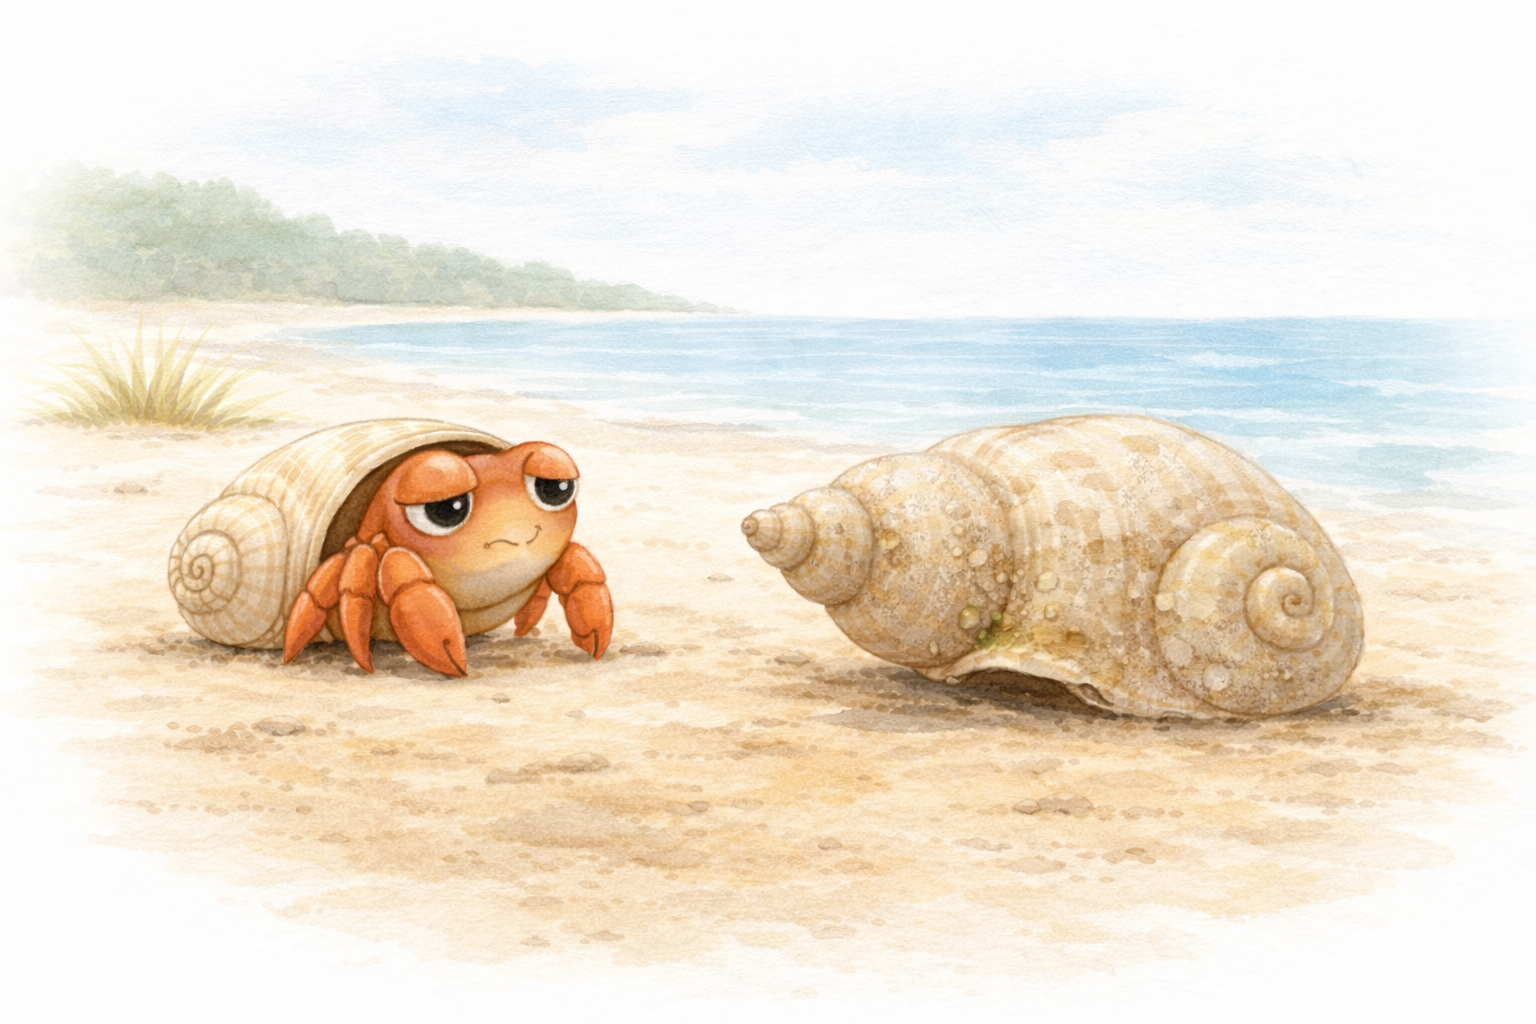
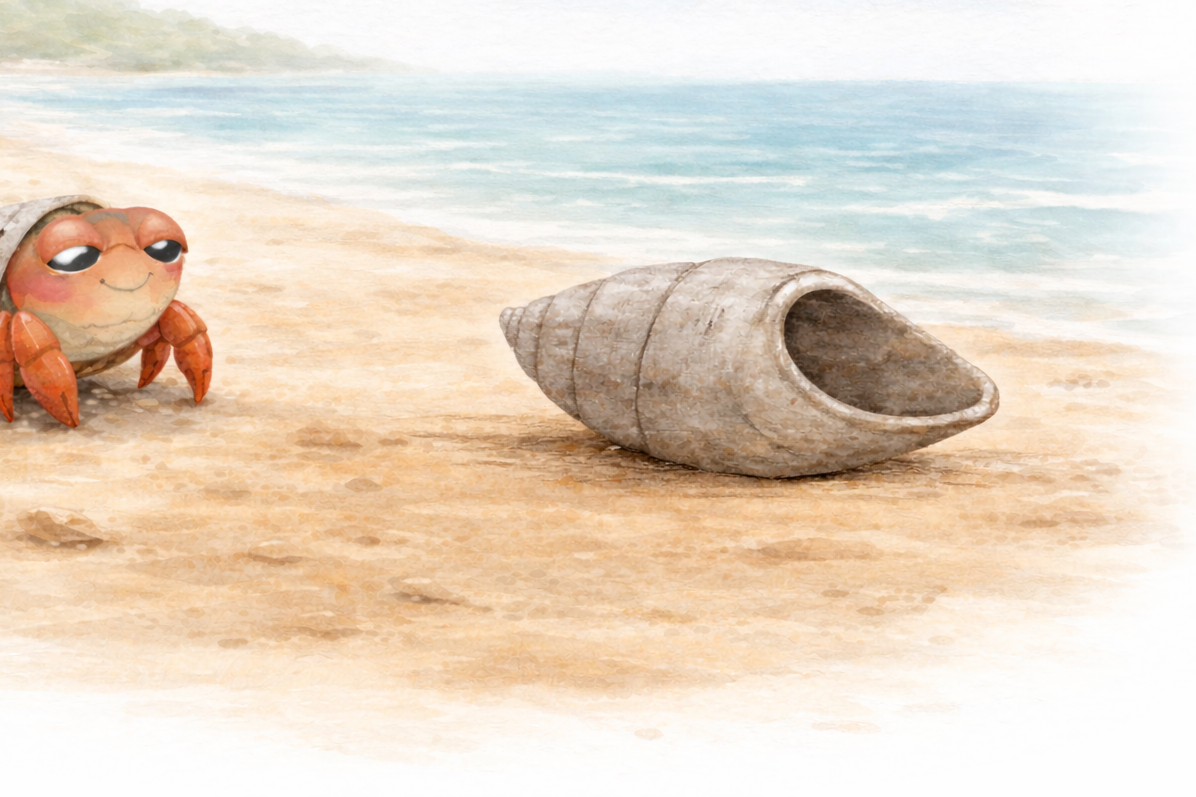
Update images and text for shell search scene
- Replace harold-scuttling with wider shot
- Update meh shell description in book and picture content
- Switch to new-shell-empty.png for shell discovery slides
- Use harold-squished-facing-right for "he stopped" slide
- Default to picture mode for new visitors
- Add image audit file for tracking image quality

diff --git a/content-loader.js b/content-loader.js
@@ -409,7 +409,7 @@
 
             // Determine initial mode
             const savedMode = localStorage.getItem('squished-viewMode');
-            const initialMode = (savedMode === 'picture' && pictureHtml) ? 'picture' : 'text';
+            const initialMode = (savedMode === 'text' || !pictureHtml) ? 'text' : 'picture';
             const initialHtml = initialMode === 'picture' ? pictureHtml : textHtml;
 
             // Only replace if we have valid content

diff --git a/image-audit.md b/image-audit.md
@@ -1,0 +1,176 @@
+# Image Audit
+
+Instructions: Go through the website in picture mode and mark each scene.
+- **Status**: ✅ KEEP / ⚠ OK FOR NOW / 🔁 REDO / ❌ CUT IMAGE
+- **Notes**: anything — wrong vibe, inconsistent character, bad composition, etc.
+
+The early section (Scenes 1–5) already works well with multiple images.
+From Scene 6 onward, we shift to one-image-per-scene.
+
+Page numbers match the on-screen page numbers in picture mode.
+
+---
+
+## EARLY SECTION — multiple images, already working
+
+### Scene 1: Harold is Happy (pages 3–6)
+**Image:** `harold-happy.png` (used 4 times)
+**Text:** "Once upon a time..." through "And for a while, it was."
+**Status:** ✅
+**Notes:**
+
+### Scene 2: Harold Feels Squished (pages 7–11)
+**Image:** `harold-squished.png` (used 5 times)
+**Text:** "But Harold kept eating seaweed..." through "(It hadn't.)"
+**Status:** ✅
+**Notes:**
+
+### Scene 3: Mabel Intervenes (pages 12–18)
+**Images:**
+- `mabel-and-harold.png` — "you've gotten bigger"
+- `harold-happy.png` — "I'm exactly the same size" (denial)
+- `mabel-the-look.png` — The Look, "you need a bigger shell", "you can't breathe"
+- `harold-squished.png` — "Leave my shell?", "Harold had no answer"
+
+**Status:** ✅
+**Notes:**
+
+### Scene 4: Edwin (pages 19–29)
+**Images:**
+- `edwin.png` — Edwin asking questions (4 slides)
+- `harold-squished.png` — Harold's answers (4 slides)
+- `edwin-wow.png` — "I hope I get squished one day"
+- `harold-happy.png` — Harold laughs, "Trust me, you will"
+
+**Status:** ✅
+**Notes:**
+
+### Scene 5: The Biology Lesson / Knowing vs Doing (pages 30–35)
+**Image:** `harold-squished.png` (used 6 times)
+**Text:** "Here's the thing about hermit crabs..." through "he was avoiding it"
+**Status:** ✅
+**Notes:**
+
+---
+
+## MID/LATE SECTION — one image per scene
+
+### Scene 6: Night Contemplation (pages 36–42)
+**Image:** `harold-contemplating.png` (used 7 times)
+**Text:** "That night, Harold couldn't sleep..." through "Huh, said Harold."
+**Status:** ✅
+**Notes:**
+
+### Scene 7: The Search (pages 43–49)
+**Text:** "The next morning, Harold made a decision..." through "It looked good. It looked right."
+**Current images:**
+- `harold-scuttling.png` — decides to search (1 slide)
+- `dream-shell.png` — the too-big dream shell (2 slides)
+- `harold-meh-shell.png` — the beat-up shell (1 slide)
+- `new-shell-empty.png` — finds the right shell, circles it, inspects it (3 slides)
+
+**Idea:** The three shells (dream, meh, perfect) could all be **shell-only still lifes** — no Harold in the scene. Easier to generate, more consistent. Harold scuttling could stay or be cut.
+
+**Status for `harold-scuttling.png`:** ✅ — replaced with new wider shot, looks great.
+**Status for `dream-shell.png`:** ✅
+**Status for `harold-meh-shell.png`:** 🔄 - Harold's shell that he is wearing is totally wrong!  Replace it with just a picture of the new meh shell
+**Status for `new-shell-empty.png`:** 🔄 this one looks wonderful, except that the shell he is wearing is all wrong.
+**Notes:**
+
+### Scene 8: The Decision / The Hesitation (pages 50–57)
+**Text:** "Harold positioned his old shell right next to the new one..." through "Did he really want to weigh it down with all his old stuff too?"
+**Current images:**
+- `new-shell-empty.png` — positions old shell next to new (2 slides) 🔄 Right now, he's in the wrong coloured shell.
+- `harold-moving-scared.jpeg` — "naked, soft, exposed" (1 slide) 🔄 I tried to overcome the AI generation problems, by pixelating the image so it was mildly amusing, but it sucks.
+- `harold-nervous.png` — "Here we go" (1 slide) 🔄 that's okay, but I'd be happy to replace it with 1 image.
+- `harold-squished-facing-right.png` — stops, still in old shell (1 slide) 🔄
+- `harold-squished.png` — all his stuff, can't leave it (5 slides) 🔄
+
+**This is the messiest scene image-wise** — 5 different images for one emotional beat (hesitation/fear). Could this be one image?
+
+**Status for `new-shell-empty.png` (reuse):** 🔄
+**Status for `harold-moving-scared.jpeg`:** 🔄
+**Status for `harold-nervous.png`:** 🔄
+**Status for `harold-squished-facing-right.png`:** 🔄
+**Status for `harold-squished.png` (reuse):** 🔄
+**Notes:**
+
+
+### Scene 9: The Naked Dash (pages 58–62)
+**Current images:**
+- `harold-moving.png` — the move itself (4 slides)
+- `seagull.png` — the seagull squawks (1 slide)
+
+**Status for `harold-moving.png`:** 🔄
+**Status for `seagull.png`:** ✅
+**Notes:**
+
+### Scene 10: The New Shell (pages 63–71)
+**Image:** `harold-new-shell.png` (used 9 times)
+**Text:** "He looked around. Strange." through "he scuttled past sea grass"
+**Status:**
+**Notes:**
+
+### Scene 11: The Queue (pages 72–75)
+**Image:** `the-queue.png` (used 4 times)
+**Text:** "A queue of hermit crabs..." through "the whole community moved up"
+**Status:**
+**Notes:**
+
+### Scene 12: Mabel & Harold Reunite / Edwin in Old Shell (pages 76–85)
+**Current images:**
+- `mabel-and-harold.png` — conversation (5 slides)
+- `mabel.png` — Mabel's wisdom (4 slides)
+- `edwin.png` — Edwin in old shell (5 slides)
+- `harold-new-shell.png` — Harold smiles (1 slide)
+
+**This is long.** Could be split or simplified. Key question: do all three character images (mabel, mabel-and-harold, edwin) work well enough?
+
+**Status for `mabel-and-harold.png`:**
+**Status for `mabel.png`:**
+**Status for `edwin.png` (reuse from earlier):**
+**Notes:**
+
+### Scene 13: The Closing Reflection (pages 86–90)
+**Current images:**
+- `harold-contemplating.png` — reflections on growth (5 slides)
+- `harold-moving.png` — "that naked moment" (1 slide)
+- `harold-squished.png` — "comfort zone" (1 slide)
+- `harold-new-shell.png` — final 2 slides, leaning into new shell
+
+**Could this be mostly `harold-contemplating.png` with `harold-new-shell.png` for the final beat?**
+
+**Status for `harold-contemplating.png` (reuse):**
+**Status for `harold-new-shell.png` (reuse):**
+**Status for `harold-moving.png` (reuse):**
+**Status for `harold-squished.png` (reuse):**
+**Notes:**
+
+---
+
+## UNUSED IMAGES
+
+These exist in the `images/` folder but aren't in `picture-content.md`:
+
+- `harold-about-to-move.png` — keep or delete?
+- `new-shell.png` — keep or delete?
+
+---
+
+## SUMMARY AFTER AUDIT
+
+**Total distinct images currently:** 19 used + 2 unused = 21
+**Images I'm happy with:**
+**Images that need redoing:**
+**Images that could be replaced with shell-only still lifes:**
+**Scenes where I'd rather cut the image entirely:**
+
+---
+
+## NEXT STEPS (for Clarke & Claude to discuss)
+
+After you fill this in, we can:
+1. Identify which scenes shift to one-image-per-scene
+2. Generate shell-only still lifes for the search scene
+3. Consolidate messy multi-image scenes (especially Scene 8)
+4. Update `picture-content.md` to match

diff --git a/picture-content.md b/picture-content.md
@@ -213,31 +213,31 @@ But it was too big. Too heavy to carry. Too much space to fill. Maybe in a coupl
 ---
 
 ![images/harold-meh-shell.png]
-He passed another that was barely bigger than his current one - but lighter. Easier to move around. He could watch the sunrise and the sunset in a shell like that. He filed that away.
+He passed another that was a little bigger than his current one - but older. A little beat up. A little tired. He filed that away.
 
 ---
 
-![images/new-shell.png]
+![images/new-shell-empty.png]
 But then he saw another one. He circled it. Inspected it. Peered inside.
 
 ---
 
-![images/new-shell.png]
+![images/new-shell-empty.png]
 It had a rather fetching spiral pattern. Streamlined. Aerodynamic. And it was just sitting there, empty, waiting.
 
 ---
 
-![images/new-shell.png]
+![images/new-shell-empty.png]
 Was this his next shell?
 
 ---
 
-![images/new-shell.png]
+![images/new-shell-empty.png]
 It looked good. It looked right.
 
 ---
 
-![images/harold-about-to-move.png]
+![images/new-shell-empty.png]
 Harold positioned his old shell right next to the new one. Close as he could get. One quick move. That's all it would take.
 
 ---
@@ -252,7 +252,7 @@ But that move meant being naked. Soft. Exposed. Even just for a moment.
 
 ---
 
-![images/harold-squished.png]
+![images/harold-squished-facing-right.png]
 Then he stopped. Still inside his old shell.
 
 ---

diff --git a/book-content.md b/book-content.md
@@ -131,7 +131,7 @@ His dream shell.
 
 But it was too big. Too heavy to carry. Too much space to fill. Maybe in a couple of crab-years. Not now.
 
-He passed another that was barely bigger than his current one - but lighter. Easier to move around. He could watch the sunrise and the sunset in a shell like that. He filed that away.
+He passed another that was a little bigger than his current one - but older. A little beat up. A little tired. He filed that away.
 
 But then he saw another one.
 
